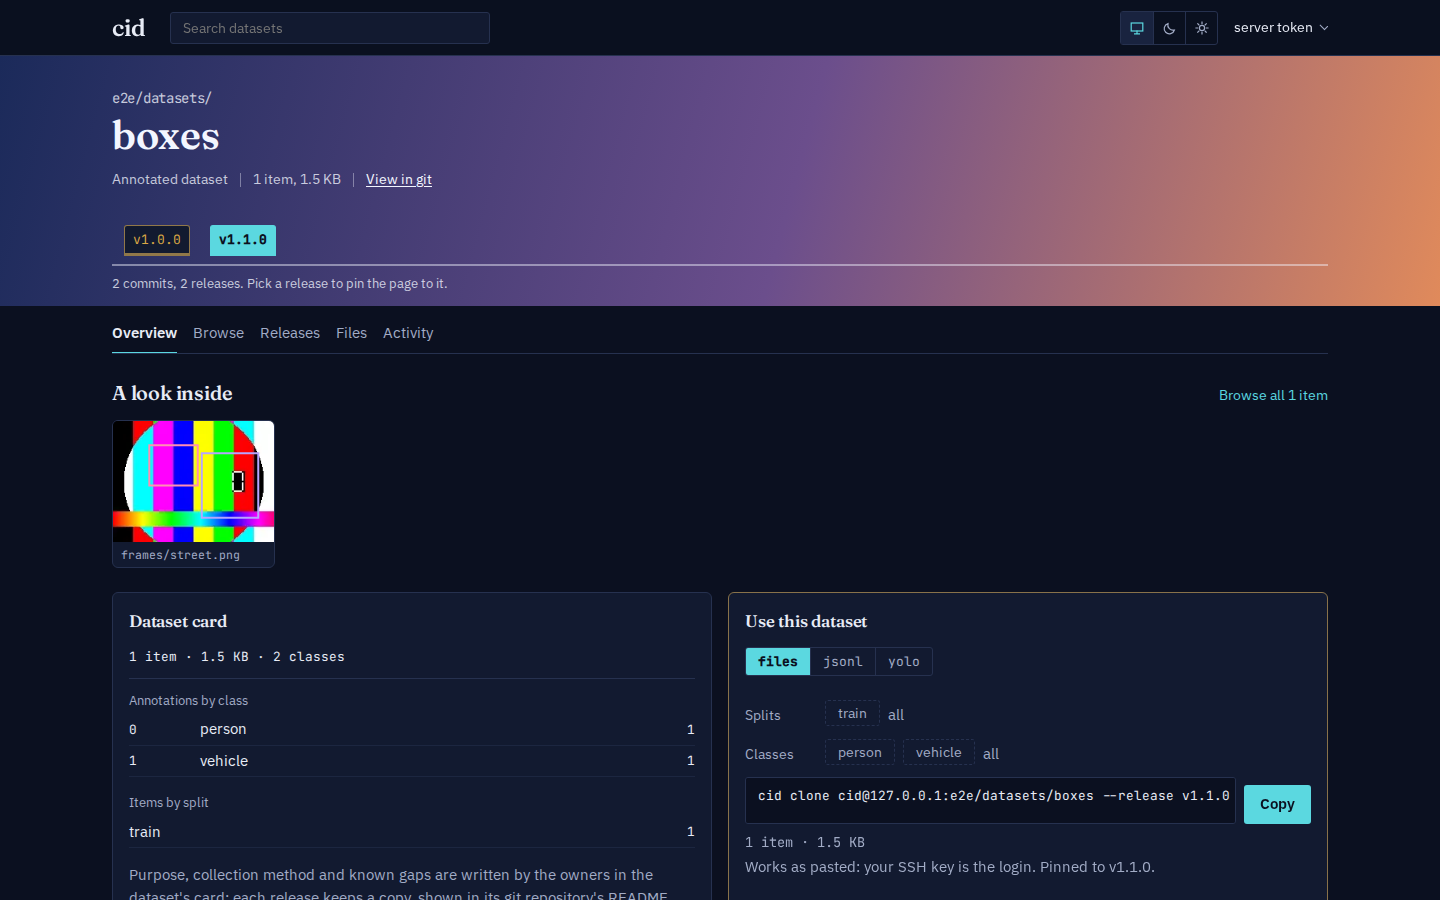
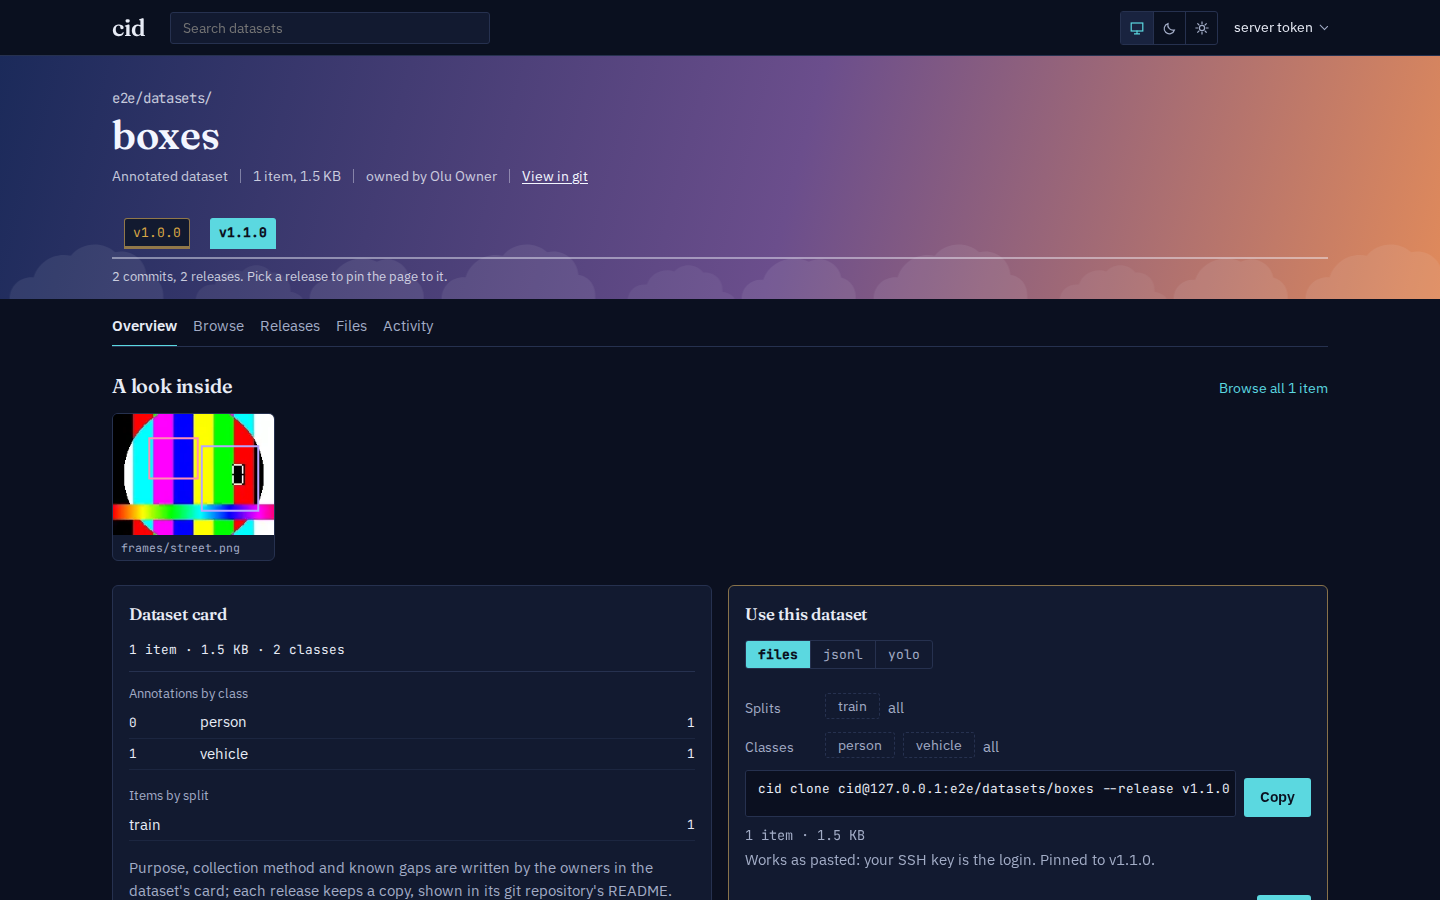
Retake the README overview screenshot with owners in the header
The header now names a dataset's owners; the README's overview image was taken before that and did not show them.

diff --git a/README.md b/README.md
@@ -47,10 +47,10 @@ or the switch in the top bar. Design: [`docs/dashboard.md`](docs/dashboard.md).
 |---|---|
 | ![The datasets home in the dark theme: a sky with the search, then dataset cards](docs/screenshots/home-night.png) | ![The datasets home in the light theme](docs/screenshots/home-daybreak.png) |
 
-**A dataset:** its releases in the header, a look inside, and the exact `cid clone`
+**A dataset:** its owners and releases in the header, a look inside, and the exact `cid clone`
 command for any format or subset.
 
-![A dataset's overview: the release tape, sample items with their boxes, the card and the clone command](docs/screenshots/overview.png)
+![A dataset's overview: its owners, the release tape, sample items with their boxes, the card and the clone command](docs/screenshots/overview.png)
 
 **Compare two releases of an annotated dataset:** the moved box, old (dashed) beside new.
 
